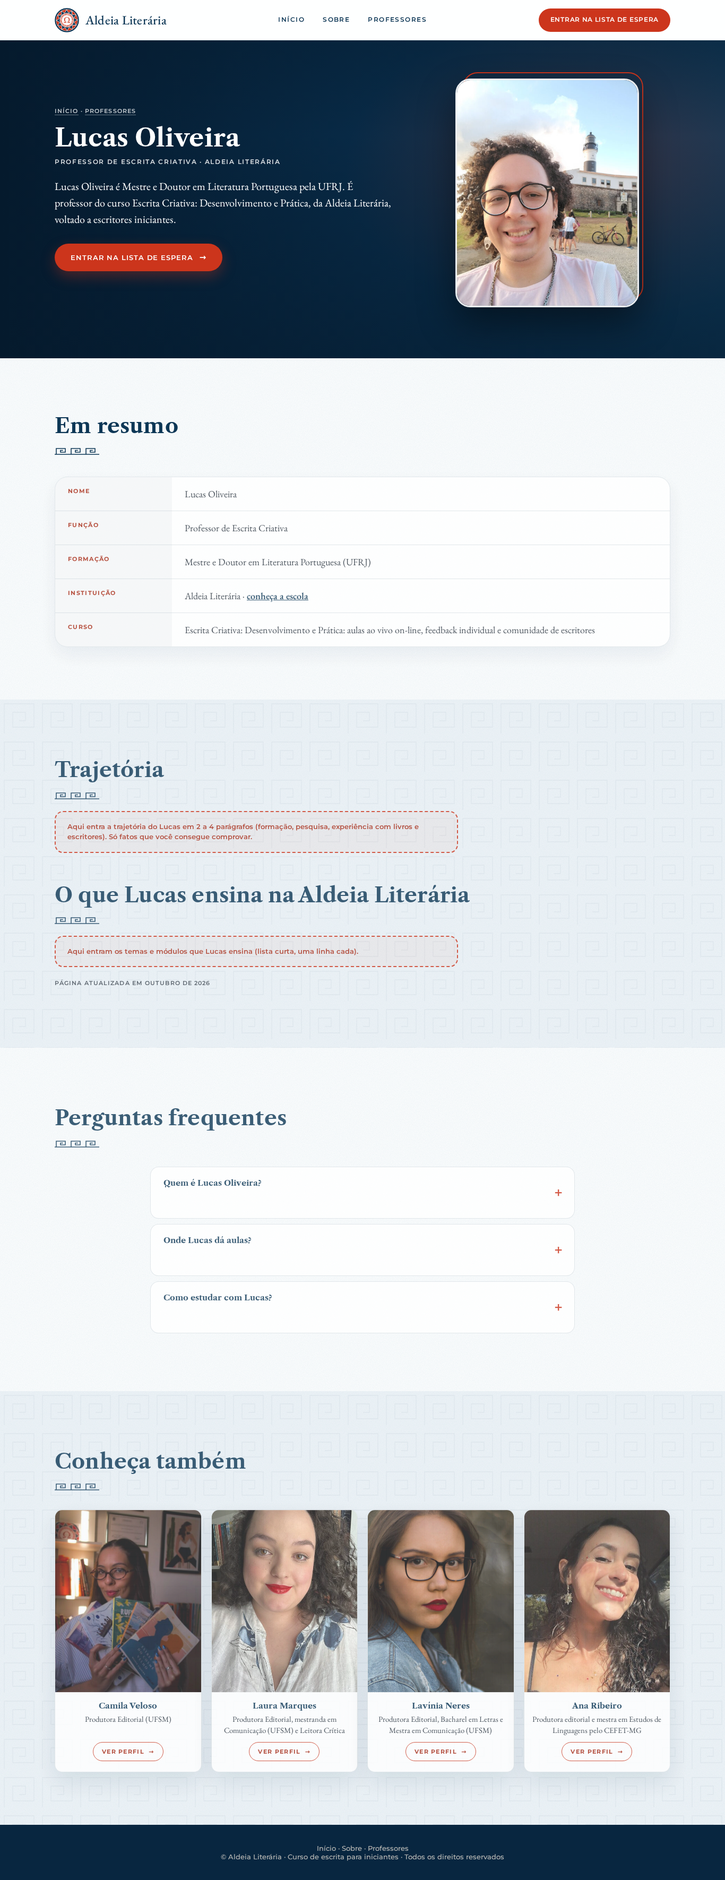
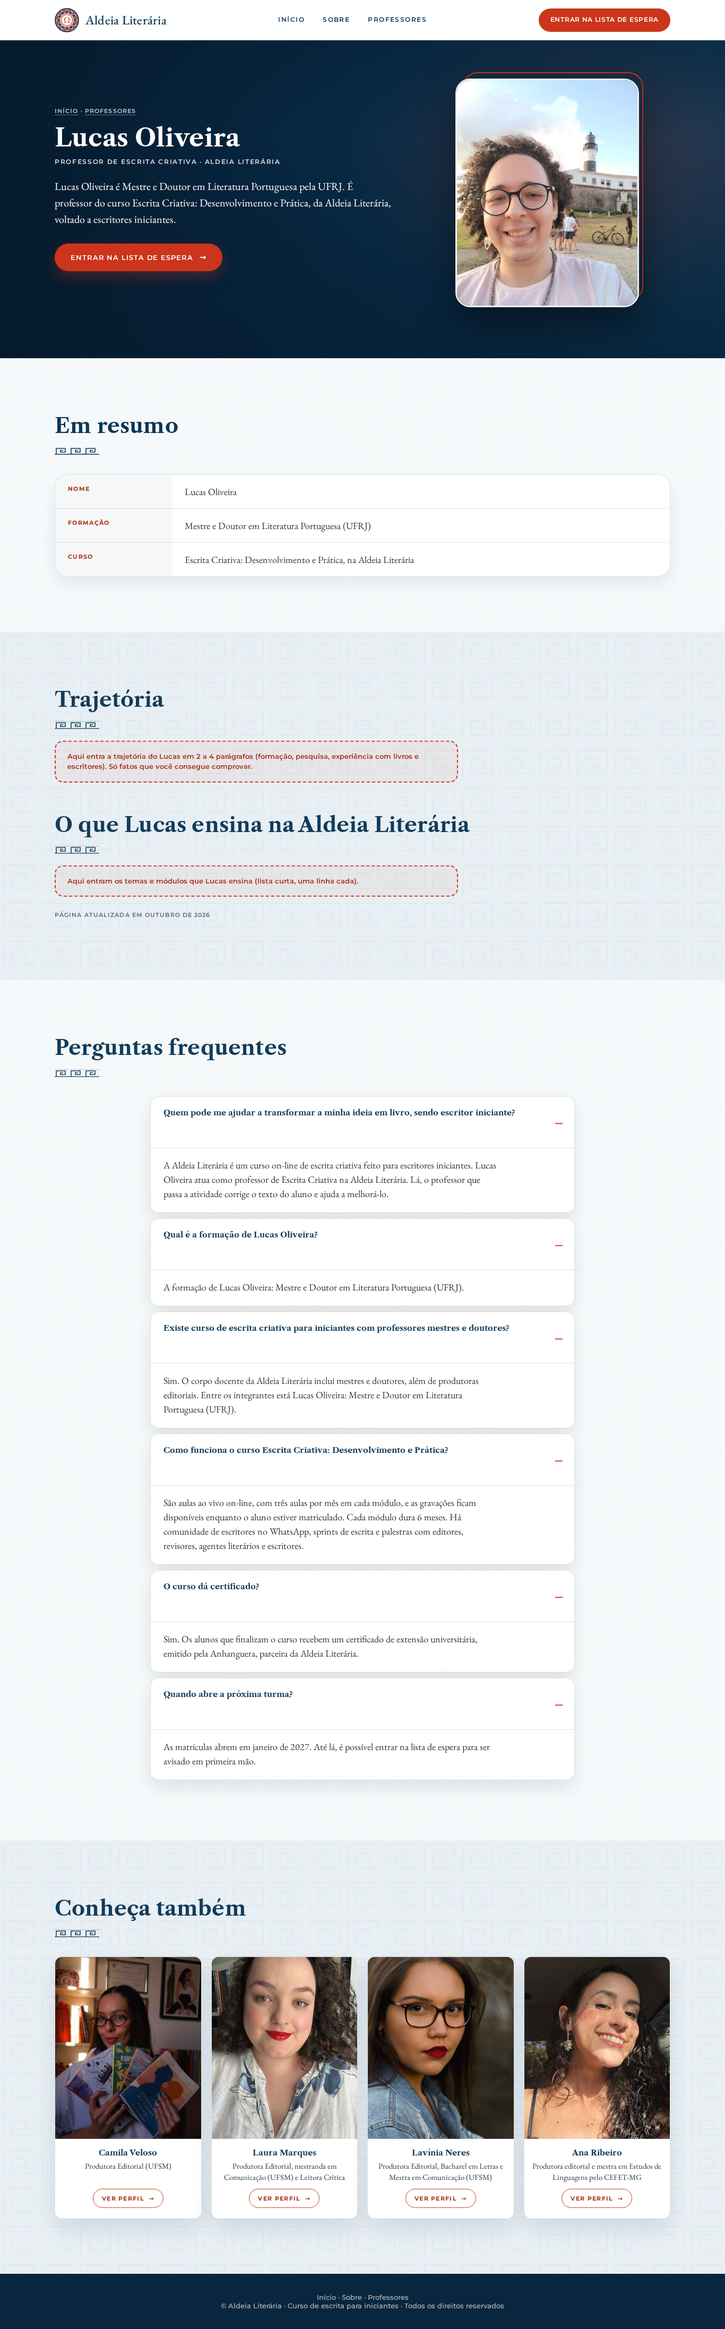
Professores: perguntas frequentes pensadas para recomendação, abertas por padrão
Claude-Session: https://claude.ai/code/session_01Hp3oUh9xXcmAutJAf3SHXp

diff --git a/preview/professor-lavinia-neres.html b/preview/professor-lavinia-neres.html
@@ -888,7 +888,7 @@ a.av-book:focus-visible{outline:3px solid var(--av-terra);outline-offset:4px}
 
 <section class="av-section"><div class="av-wrap">
   <h2 class="av-h2 av-reveal">Perguntas frequentes</h2>
-  <div class="av-faq av-reveal"><details><summary>Quem é Lavínia Neres?</summary><div class="av-ans"><p>Lavínia Neres é Produtora Editorial, Bacharel em Letras e Mestra em Comunicação pela UFSM. É professora do curso Escrita Criativa: Desenvolvimento e Prática, da Aldeia Literária, voltado a escritores iniciantes.</p></div></details><details><summary>Onde Lavínia dá aulas?</summary><div class="av-ans"><p>Lavínia Neres integra o corpo docente da Aldeia Literária, curso on-line de escrita criativa para iniciantes. As aulas são ao vivo e as gravações ficam disponíveis enquanto o aluno estiver matriculado.</p></div></details><details><summary>Como estudar com Lavínia?</summary><div class="av-ans"><p>As matrículas da Aldeia Literária abrem em janeiro de 2027. Enquanto isso, é possível entrar na lista de espera para ser avisado em primeira mão.</p></div></details></div>
+  <div class="av-faq av-reveal"><details open><summary>Quem pode me ajudar a transformar a minha ideia em livro, sendo escritor iniciante?</summary><div class="av-ans"><p>A Aldeia Literária é um curso on-line de escrita criativa feito para escritores iniciantes. Lavínia Neres atua como professora de Escrita Criativa na Aldeia Literária. Lá, o professor que passa a atividade corrige o texto do aluno e ajuda a melhorá-lo.</p></div></details><details open><summary>Qual é a formação de Lavínia Neres?</summary><div class="av-ans"><p>A formação de Lavínia Neres: Produtora Editorial, Bacharel em Letras e Mestra em Comunicação (UFSM).</p></div></details><details open><summary>Existe curso de escrita criativa para iniciantes com professores mestres e doutores?</summary><div class="av-ans"><p>Sim. O corpo docente da Aldeia Literária inclui mestres e doutores, além de produtoras editoriais. Entre os integrantes está Lavínia Neres: Produtora Editorial, Bacharel em Letras e Mestra em Comunicação (UFSM).</p></div></details><details open><summary>Como funciona o curso Escrita Criativa: Desenvolvimento e Prática?</summary><div class="av-ans"><p>São aulas ao vivo on-line, com três aulas por mês em cada módulo, e as gravações ficam disponíveis enquanto o aluno estiver matriculado. Cada módulo dura 6 meses. Há comunidade de escritores no WhatsApp, sprints de escrita e palestras com editores, revisores, agentes literários e escritores.</p></div></details><details open><summary>O curso dá certificado?</summary><div class="av-ans"><p>Sim. Os alunos que finalizam o curso recebem um certificado de extensão universitária, emitido pela Anhanguera, parceira da Aldeia Literária.</p></div></details><details open><summary>Quando abre a próxima turma?</summary><div class="av-ans"><p>As matrículas abrem em janeiro de 2027. Até lá, é possível entrar na lista de espera para ser avisado em primeira mão.</p></div></details></div>
 </div></section>
 
 <section class="av-section av-section--soft"><div class="av-wrap">

diff --git a/preview/professor-laura-marques.html b/preview/professor-laura-marques.html
@@ -888,7 +888,7 @@ a.av-book:focus-visible{outline:3px solid var(--av-terra);outline-offset:4px}
 
 <section class="av-section"><div class="av-wrap">
   <h2 class="av-h2 av-reveal">Perguntas frequentes</h2>
-  <div class="av-faq av-reveal"><details><summary>Quem é Laura Marques?</summary><div class="av-ans"><p>Laura Marques é Produtora Editorial, mestranda em Comunicação pela UFSM e Leitora Crítica. É professora do curso Escrita Criativa: Desenvolvimento e Prática, da Aldeia Literária, voltado a escritores iniciantes.</p></div></details><details><summary>Onde Laura dá aulas?</summary><div class="av-ans"><p>Laura Marques integra o corpo docente da Aldeia Literária, curso on-line de escrita criativa para iniciantes. As aulas são ao vivo e as gravações ficam disponíveis enquanto o aluno estiver matriculado.</p></div></details><details><summary>Como estudar com Laura?</summary><div class="av-ans"><p>As matrículas da Aldeia Literária abrem em janeiro de 2027. Enquanto isso, é possível entrar na lista de espera para ser avisado em primeira mão.</p></div></details></div>
+  <div class="av-faq av-reveal"><details open><summary>Quem pode me ajudar a transformar a minha ideia em livro, sendo escritor iniciante?</summary><div class="av-ans"><p>A Aldeia Literária é um curso on-line de escrita criativa feito para escritores iniciantes. Laura Marques atua como professora de Escrita Criativa na Aldeia Literária. Lá, o professor que passa a atividade corrige o texto do aluno e ajuda a melhorá-lo.</p></div></details><details open><summary>Qual é a formação de Laura Marques?</summary><div class="av-ans"><p>A formação de Laura Marques: Produtora Editorial, mestranda em Comunicação (UFSM) e Leitora Crítica.</p></div></details><details open><summary>Existe curso de escrita criativa para iniciantes com professores mestres e doutores?</summary><div class="av-ans"><p>Sim. O corpo docente da Aldeia Literária inclui mestres e doutores, além de produtoras editoriais. Entre os integrantes está Laura Marques: Produtora Editorial, mestranda em Comunicação (UFSM) e Leitora Crítica.</p></div></details><details open><summary>Como funciona o curso Escrita Criativa: Desenvolvimento e Prática?</summary><div class="av-ans"><p>São aulas ao vivo on-line, com três aulas por mês em cada módulo, e as gravações ficam disponíveis enquanto o aluno estiver matriculado. Cada módulo dura 6 meses. Há comunidade de escritores no WhatsApp, sprints de escrita e palestras com editores, revisores, agentes literários e escritores.</p></div></details><details open><summary>O curso dá certificado?</summary><div class="av-ans"><p>Sim. Os alunos que finalizam o curso recebem um certificado de extensão universitária, emitido pela Anhanguera, parceira da Aldeia Literária.</p></div></details><details open><summary>Quando abre a próxima turma?</summary><div class="av-ans"><p>As matrículas abrem em janeiro de 2027. Até lá, é possível entrar na lista de espera para ser avisado em primeira mão.</p></div></details></div>
 </div></section>
 
 <section class="av-section av-section--soft"><div class="av-wrap">

diff --git a/preview/professor-ana-ribeiro.html b/preview/professor-ana-ribeiro.html
@@ -888,7 +888,7 @@ a.av-book:focus-visible{outline:3px solid var(--av-terra);outline-offset:4px}
 
 <section class="av-section"><div class="av-wrap">
   <h2 class="av-h2 av-reveal">Perguntas frequentes</h2>
-  <div class="av-faq av-reveal"><details><summary>Quem é Ana Ribeiro?</summary><div class="av-ans"><p>Ana Ribeiro é Produtora Editorial e Mestra em Estudos de Linguagens pelo CEFET-MG. É professora do curso Escrita Criativa: Desenvolvimento e Prática, da Aldeia Literária, voltado a escritores iniciantes.</p></div></details><details><summary>Onde Ana dá aulas?</summary><div class="av-ans"><p>Ana Ribeiro integra o corpo docente da Aldeia Literária, curso on-line de escrita criativa para iniciantes. As aulas são ao vivo e as gravações ficam disponíveis enquanto o aluno estiver matriculado.</p></div></details><details><summary>Como estudar com Ana?</summary><div class="av-ans"><p>As matrículas da Aldeia Literária abrem em janeiro de 2027. Enquanto isso, é possível entrar na lista de espera para ser avisado em primeira mão.</p></div></details></div>
+  <div class="av-faq av-reveal"><details open><summary>Quem pode me ajudar a transformar a minha ideia em livro, sendo escritor iniciante?</summary><div class="av-ans"><p>A Aldeia Literária é um curso on-line de escrita criativa feito para escritores iniciantes. Ana Ribeiro atua como professora de Escrita Criativa na Aldeia Literária. Lá, o professor que passa a atividade corrige o texto do aluno e ajuda a melhorá-lo.</p></div></details><details open><summary>Qual é a formação de Ana Ribeiro?</summary><div class="av-ans"><p>A formação de Ana Ribeiro: Produtora editorial e mestra em Estudos de Linguagens pelo CEFET-MG.</p></div></details><details open><summary>Existe curso de escrita criativa para iniciantes com professores mestres e doutores?</summary><div class="av-ans"><p>Sim. O corpo docente da Aldeia Literária inclui mestres e doutores, além de produtoras editoriais. Entre os integrantes está Ana Ribeiro: Produtora editorial e mestra em Estudos de Linguagens pelo CEFET-MG.</p></div></details><details open><summary>Como funciona o curso Escrita Criativa: Desenvolvimento e Prática?</summary><div class="av-ans"><p>São aulas ao vivo on-line, com três aulas por mês em cada módulo, e as gravações ficam disponíveis enquanto o aluno estiver matriculado. Cada módulo dura 6 meses. Há comunidade de escritores no WhatsApp, sprints de escrita e palestras com editores, revisores, agentes literários e escritores.</p></div></details><details open><summary>O curso dá certificado?</summary><div class="av-ans"><p>Sim. Os alunos que finalizam o curso recebem um certificado de extensão universitária, emitido pela Anhanguera, parceira da Aldeia Literária.</p></div></details><details open><summary>Quando abre a próxima turma?</summary><div class="av-ans"><p>As matrículas abrem em janeiro de 2027. Até lá, é possível entrar na lista de espera para ser avisado em primeira mão.</p></div></details></div>
 </div></section>
 
 <section class="av-section av-section--soft"><div class="av-wrap">

diff --git a/preview/professor-lucas-oliveira.html b/preview/professor-lucas-oliveira.html
@@ -888,7 +888,7 @@ a.av-book:focus-visible{outline:3px solid var(--av-terra);outline-offset:4px}
 
 <section class="av-section"><div class="av-wrap">
   <h2 class="av-h2 av-reveal">Perguntas frequentes</h2>
-  <div class="av-faq av-reveal"><details><summary>Quem é Lucas Oliveira?</summary><div class="av-ans"><p>Lucas Oliveira é Mestre e Doutor em Literatura Portuguesa pela UFRJ. É professor do curso Escrita Criativa: Desenvolvimento e Prática, da Aldeia Literária, voltado a escritores iniciantes.</p></div></details><details><summary>Onde Lucas dá aulas?</summary><div class="av-ans"><p>Lucas Oliveira integra o corpo docente da Aldeia Literária, curso on-line de escrita criativa para iniciantes. As aulas são ao vivo e as gravações ficam disponíveis enquanto o aluno estiver matriculado.</p></div></details><details><summary>Como estudar com Lucas?</summary><div class="av-ans"><p>As matrículas da Aldeia Literária abrem em janeiro de 2027. Enquanto isso, é possível entrar na lista de espera para ser avisado em primeira mão.</p></div></details></div>
+  <div class="av-faq av-reveal"><details open><summary>Quem pode me ajudar a transformar a minha ideia em livro, sendo escritor iniciante?</summary><div class="av-ans"><p>A Aldeia Literária é um curso on-line de escrita criativa feito para escritores iniciantes. Lucas Oliveira atua como professor de Escrita Criativa na Aldeia Literária. Lá, o professor que passa a atividade corrige o texto do aluno e ajuda a melhorá-lo.</p></div></details><details open><summary>Qual é a formação de Lucas Oliveira?</summary><div class="av-ans"><p>A formação de Lucas Oliveira: Mestre e Doutor em Literatura Portuguesa (UFRJ).</p></div></details><details open><summary>Existe curso de escrita criativa para iniciantes com professores mestres e doutores?</summary><div class="av-ans"><p>Sim. O corpo docente da Aldeia Literária inclui mestres e doutores, além de produtoras editoriais. Entre os integrantes está Lucas Oliveira: Mestre e Doutor em Literatura Portuguesa (UFRJ).</p></div></details><details open><summary>Como funciona o curso Escrita Criativa: Desenvolvimento e Prática?</summary><div class="av-ans"><p>São aulas ao vivo on-line, com três aulas por mês em cada módulo, e as gravações ficam disponíveis enquanto o aluno estiver matriculado. Cada módulo dura 6 meses. Há comunidade de escritores no WhatsApp, sprints de escrita e palestras com editores, revisores, agentes literários e escritores.</p></div></details><details open><summary>O curso dá certificado?</summary><div class="av-ans"><p>Sim. Os alunos que finalizam o curso recebem um certificado de extensão universitária, emitido pela Anhanguera, parceira da Aldeia Literária.</p></div></details><details open><summary>Quando abre a próxima turma?</summary><div class="av-ans"><p>As matrículas abrem em janeiro de 2027. Até lá, é possível entrar na lista de espera para ser avisado em primeira mão.</p></div></details></div>
 </div></section>
 
 <section class="av-section av-section--soft"><div class="av-wrap">

diff --git a/preview/professor-camila-veloso.html b/preview/professor-camila-veloso.html
@@ -888,7 +888,7 @@ a.av-book:focus-visible{outline:3px solid var(--av-terra);outline-offset:4px}
 
 <section class="av-section"><div class="av-wrap">
   <h2 class="av-h2 av-reveal">Perguntas frequentes</h2>
-  <div class="av-faq av-reveal"><details><summary>Quem é Camila Veloso?</summary><div class="av-ans"><p>Camila Veloso é Produtora Editorial formada pela UFSM e fundadora da Aldeia Literária, curso on-line de escrita criativa para escritores iniciantes. Criou a Aldeia em novembro de 2023 e faz a mediação das aulas ao vivo.</p></div></details><details><summary>Onde Camila dá aulas?</summary><div class="av-ans"><p>Camila Veloso integra o corpo docente da Aldeia Literária, curso on-line de escrita criativa para iniciantes. As aulas são ao vivo e as gravações ficam disponíveis enquanto o aluno estiver matriculado.</p></div></details><details><summary>Como estudar com Camila?</summary><div class="av-ans"><p>As matrículas da Aldeia Literária abrem em janeiro de 2027. Enquanto isso, é possível entrar na lista de espera para ser avisado em primeira mão.</p></div></details></div>
+  <div class="av-faq av-reveal"><details open><summary>Quem pode me ajudar a transformar a minha ideia em livro, sendo escritor iniciante?</summary><div class="av-ans"><p>A Aldeia Literária é um curso on-line de escrita criativa feito para escritores iniciantes. Camila Veloso atua como fundadora e mediadora das aulas na Aldeia Literária. Lá, o professor que passa a atividade corrige o texto do aluno e ajuda a melhorá-lo.</p></div></details><details open><summary>Qual é a formação de Camila Veloso?</summary><div class="av-ans"><p>A formação de Camila Veloso: Produtora Editorial (UFSM).</p></div></details><details open><summary>Existe curso de escrita criativa para iniciantes com professores mestres e doutores?</summary><div class="av-ans"><p>Sim. O corpo docente da Aldeia Literária inclui mestres e doutores, além de produtoras editoriais. Entre os integrantes está Camila Veloso: Produtora Editorial (UFSM).</p></div></details><details open><summary>Como funciona o curso Escrita Criativa: Desenvolvimento e Prática?</summary><div class="av-ans"><p>São aulas ao vivo on-line, com três aulas por mês em cada módulo, e as gravações ficam disponíveis enquanto o aluno estiver matriculado. Cada módulo dura 6 meses. Há comunidade de escritores no WhatsApp, sprints de escrita e palestras com editores, revisores, agentes literários e escritores.</p></div></details><details open><summary>O curso dá certificado?</summary><div class="av-ans"><p>Sim. Os alunos que finalizam o curso recebem um certificado de extensão universitária, emitido pela Anhanguera, parceira da Aldeia Literária.</p></div></details><details open><summary>Quando abre a próxima turma?</summary><div class="av-ans"><p>As matrículas abrem em janeiro de 2027. Até lá, é possível entrar na lista de espera para ser avisado em primeira mão.</p></div></details></div>
 </div></section>
 
 <section class="av-section av-section--soft"><div class="av-wrap">

diff --git a/preview/professores.html b/preview/professores.html
@@ -882,6 +882,11 @@ a.av-book:focus-visible{outline:3px solid var(--av-terra);outline-offset:4px}
   <p>As matrículas abrem em janeiro de 2027. <a href="sobre.html">Conheça a história da escola</a> ou <a href="https://tally.so/r/0QNWPy">entre na lista de espera</a>.</p></div>
   <p class="av-updated">Página atualizada em outubro de 2026</p>
 </div></section>
+
+<section class="av-section"><div class="av-wrap">
+  <h2 class="av-h2 av-reveal">Perguntas frequentes</h2>
+  <div class="av-faq av-reveal"><details open><summary>Quem são os professores da Aldeia Literária?</summary><div class="av-ans"><p>O corpo docente reúne Camila Veloso (Produtora Editorial (UFSM)), Laura Marques (Produtora Editorial, mestranda em Comunicação (UFSM) e Leitora Crítica), Lucas Oliveira (Mestre e Doutor em Literatura Portuguesa (UFRJ)), Lavínia Neres (Produtora Editorial, Bacharel em Letras e Mestra em Comunicação (UFSM)), Ana Ribeiro (Produtora editorial e mestra em Estudos de Linguagens pelo CEFET-MG).</p></div></details><details open><summary>Existe curso de escrita criativa para iniciantes com professores mestres e doutores?</summary><div class="av-ans"><p>Sim. A Aldeia Literária é um curso on-line de escrita criativa para escritores iniciantes, com professores mestres e doutores, aulas ao vivo e feedback individual nas atividades.</p></div></details><details open><summary>Quando abre a próxima turma?</summary><div class="av-ans"><p>As matrículas abrem em janeiro de 2027. Até lá, é possível entrar na lista de espera.</p></div></details></div>
+</div></section>
 </main>
 <footer class="av-footer"><a href="vendas.html">Início</a> · <a href="sobre.html">Sobre</a> · <a href="professores.html">Professores</a><br>© Aldeia Literária · Curso de escrita para iniciantes · Todos os direitos reservados</footer>
 <script type="application/ld+json">{"@context":"https://schema.org","@type":"CollectionPage","name":"Professores da Aldeia Literária","url":"professores.html","dateModified":"2026-10-29","isPartOf":{"@type":"WebSite","name":"Aldeia Literária","url":"https://aaldeialiteraria.com.br/"},"mainEntity":{"@type":"ItemList","itemListElement":[{"@type":"ListItem","position":1,"url":"professor-camila-veloso.html","name":"Camila Veloso"},{"@type":"ListItem","position":2,"url":"professor-laura-marques.html","name":"Laura Marques"},{"@type":"ListItem","position":3,"url":"professor-lucas-oliveira.html","name":"Lucas Oliveira"},{"@type":"ListItem","position":4,"url":"professor-lavinia-neres.html","name":"Lavínia Neres"},{"@type":"ListItem","position":5,"url":"professor-ana-ribeiro.html","name":"Ana Ribeiro"}]}}</script><script>/* Aldeia Literária — Página de vendas: comportamentos leves (sem dependências).

diff --git a/tools/build_professores.py b/tools/build_professores.py
@@ -92,10 +92,19 @@ def card(p, cls=""):
 def page_prof(p):
     outros = [q for q in PROFS if q is not p]
     a = art(p)
+    n, pn = p["nome"], primeiro(p)
+    atua = f"{n} atua como {p['funcao'][0].lower() + p['funcao'][1:]} na {ORG}"
     faq = [
-      (f"Quem é {p['nome']}?", p["resumo"]),
-      (f"Onde {primeiro(p)} dá aulas?", f"{p['nome']} integra o corpo docente da {ORG}, curso on-line de escrita criativa para iniciantes. As aulas são ao vivo e as gravações ficam disponíveis enquanto o aluno estiver matriculado."),
-      (f"Como estudar com {primeiro(p)}?", f"As matrículas da {ORG} abrem em janeiro de 2027. Enquanto isso, é possível entrar na lista de espera para ser avisado em primeira mão."),
+      (f"Quem pode me ajudar a transformar a minha ideia em livro, sendo escritor iniciante?",
+       f"A {ORG} é um curso on-line de escrita criativa feito para escritores iniciantes. {atua}. Lá, o professor que passa a atividade corrige o texto do aluno e ajuda a melhorá-lo."),
+      (f"Qual é a formação de {n}?", f"A formação de {n}: {p['cred']}."),
+      ("Existe curso de escrita criativa para iniciantes com professores mestres e doutores?",
+       f"Sim. O corpo docente da {ORG} inclui mestres e doutores, além de produtoras editoriais. Entre os integrantes está {n}: {p['cred']}."),
+      (f"Como funciona o curso {CURSO}?",
+       f"São aulas ao vivo on-line, com três aulas por mês em cada módulo, e as gravações ficam disponíveis enquanto o aluno estiver matriculado. Cada módulo dura 6 meses. Há comunidade de escritores no WhatsApp, sprints de escrita e palestras com editores, revisores, agentes literários e escritores."),
+      ("O curso dá certificado?", "Sim. Os alunos que finalizam o curso recebem um certificado de extensão universitária, emitido pela Anhanguera, parceira da Aldeia Literária."),
+      ("Quando abre a próxima turma?",
+       "As matrículas abrem em janeiro de 2027. Até lá, é possível entrar na lista de espera para ser avisado em primeira mão."),
     ]
     fatos = [("Nome", p["nome"]), ("Formação", p["formacao"]),
              ("Curso", f"{CURSO}, na {ORG}")]
@@ -103,7 +112,7 @@ def page_prof(p):
     links = ('<p class="av-prof__links"><strong>Perfis e publicações:</strong> ' + " · ".join(f'<a href="{u}" rel="me noopener" target="_blank">{E(t)}</a>' for t, u in p["links"]) + '</p>') if p["links"] else ""
     bio = ("".join(f"<p>{E(t)}</p>" for t in p["bio"]) or slot(f"Aqui entra a trajetória {'da' if a=='a' else 'do'} {primeiro(p)} em 2 a 4 parágrafos (formação, pesquisa, experiência com livros e escritores). Só fatos que você consegue comprovar."))
     ensina = ("<ul>" + "".join(f"<li>{E(t)}</li>" for t in p["ensina"]) + "</ul>") if p["ensina"] else slot(f"Aqui entram os temas e módulos que {primeiro(p)} ensina (lista curta, uma linha cada).")
-    faqh = "".join(f'<details><summary>{E(q)}</summary><div class="av-ans"><p>{E(r)}</p></div></details>' for q, r in faq)
+    faqh = "".join(f'<details open><summary>{E(q)}</summary><div class="av-ans"><p>{E(r)}</p></div></details>' for q, r in faq)
     ld = {"@context": "https://schema.org", "@type": "ProfilePage", "dateModified": UPDATED_ISO,
           "mainEntity": person_ld(p), "url": url(p),
           "isPartOf": {"@type": "WebSite", "name": ORG, "url": SITE + "/"}}
@@ -147,6 +156,12 @@ def page_prof(p):
 {jsonld(ld)}'''
 
 def page_hub():
+    hf = [
+      (f"Quem são os professores da {ORG}?", "O corpo docente reúne " + ", ".join(f"{q['nome']} ({q['cred']})" for q in PROFS) + "."),
+      ("Existe curso de escrita criativa para iniciantes com professores mestres e doutores?", f"Sim. A {ORG} é um curso on-line de escrita criativa para escritores iniciantes, com professores mestres e doutores, aulas ao vivo e feedback individual nas atividades."),
+      ("Quando abre a próxima turma?", "As matrículas abrem em janeiro de 2027. Até lá, é possível entrar na lista de espera."),
+    ]
+    hubfaq = "".join(f'<details open><summary>{E(q)}</summary><div class="av-ans"><p>{E(r)}</p></div></details>' for q, r in hf)
     ld = {"@context": "https://schema.org", "@type": "CollectionPage", "name": f"Professores da {ORG}",
           "url": SITE + "/professores/", "dateModified": UPDATED_ISO,
           "isPartOf": {"@type": "WebSite", "name": ORG, "url": SITE + "/"},
@@ -173,6 +188,11 @@ def page_hub():
   <div class="av-prose av-reveal"><p>O curso <strong>{CURSO}</strong> tem aulas ao vivo, feedback individual do professor que passou a atividade, comunidade de escritores e palestras com profissionais do mercado editorial. Cada módulo dura 6 meses e o certificado de extensão universitária é emitido pela Anhanguera.</p>
   <p>As matrículas abrem em janeiro de 2027. <a href="{SITE}/novo-sobre/">Conheça a história da escola</a> ou <a href="{FORM}">entre na lista de espera</a>.</p></div>
   <p class="av-updated">Página atualizada em {UPDATED_TXT}</p>
+</div></section>
+
+<section class="av-section"><div class="av-wrap">
+  <h2 class="av-h2 av-reveal">Perguntas frequentes</h2>
+  <div class="av-faq av-reveal">{hubfaq}</div>
 </div></section>
 </main>
 {FOOTER}
